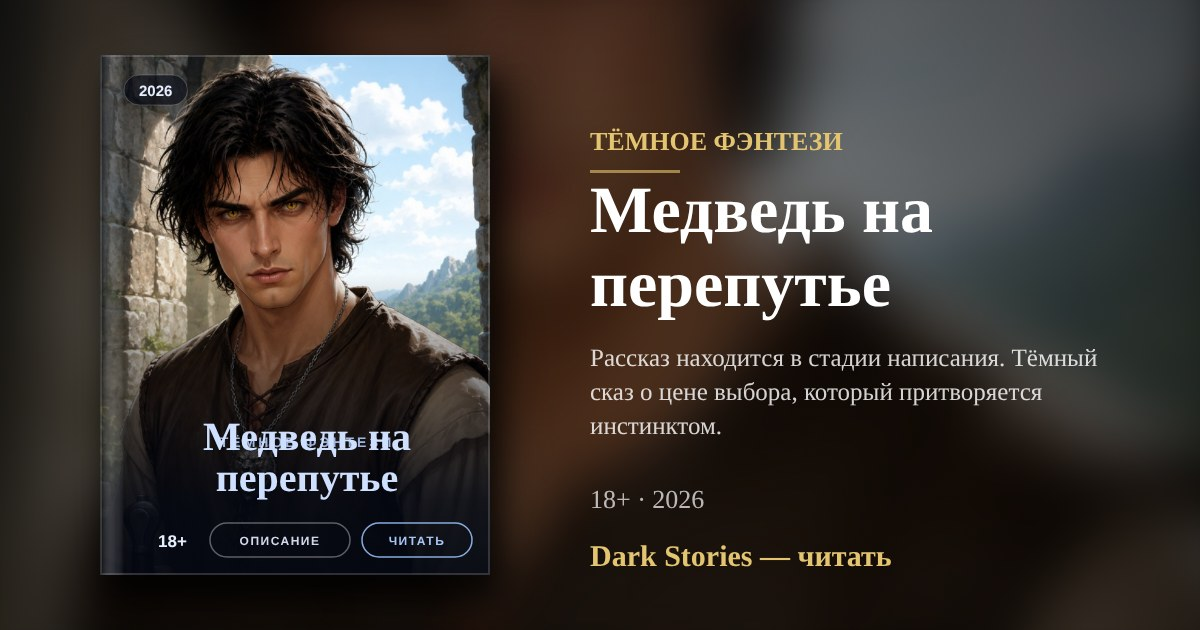
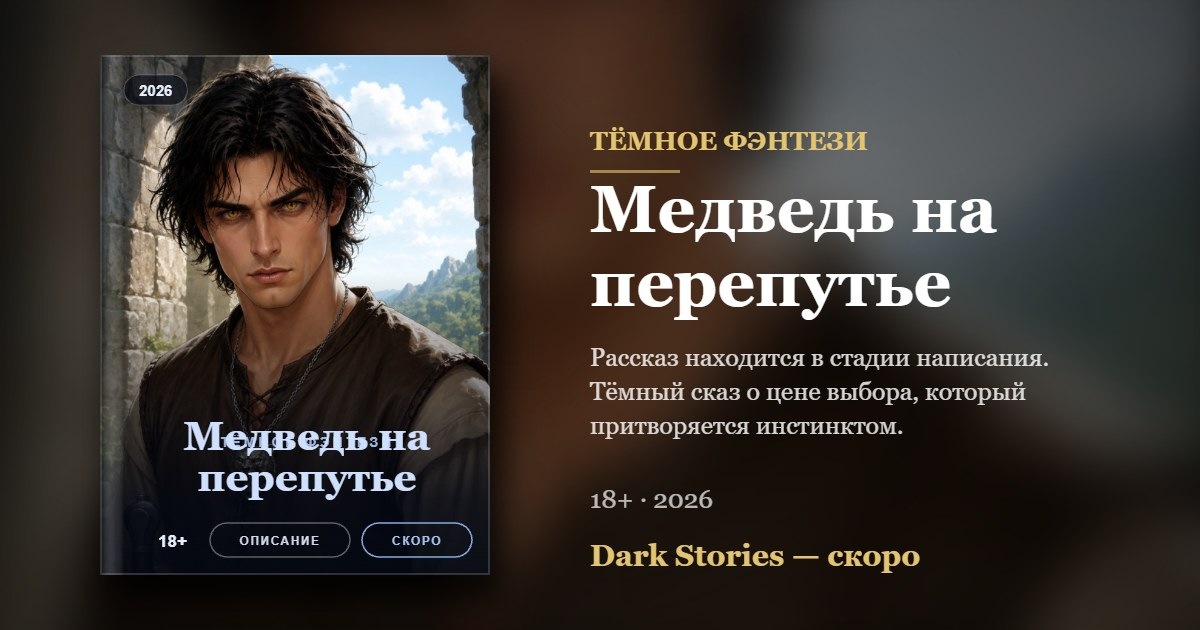
Админка: Изменены данные: «Новенький из параллельного класса»; Изменены данные: «Медведь на перепутье»; Изменены данные: «Лорд Балдерон. Цикл сказов»

diff --git a/s/lord-balderon.html b/s/lord-balderon.html
@@ -8,6 +8,6 @@
 <meta name="twitter:card" content="summary_large_image"><meta name="twitter:title" content="Лорд Балдерон. Цикл сказов — Dark Stories">
 <meta name="twitter:description" content="Шесть сказов о создателе, который познаёт свой же мир. О цене добрых намерений, о прощении, о покое. И о том, что даже бог может ошибаться."><meta name="twitter:image" content="https://darkstories.ru/s/lord-balderon.jpg">
 <link rel="canonical" href="https://darkstories.ru/s/lord-balderon.html">
-<script>location.replace("../#/read/lord-balderon")</script>
+<script>location.replace("../#/books")</script>
 <style>body{background:#0b0b0d;color:#ddd;font:16px system-ui,sans-serif;display:grid;place-items:center;min-height:100vh;margin:0}a{color:#e8c27a}</style>
-</head><body><p><a href="../#/read/lord-balderon">Читать «Лорд Балдерон. Цикл сказов»</a></p></body></html>
+</head><body><p><a href="../#/books">Скоро: «Лорд Балдерон. Цикл сказов»</a></p></body></html>

diff --git a/s/new-guy.html b/s/new-guy.html
@@ -8,6 +8,6 @@
 <meta name="twitter:card" content="summary_large_image"><meta name="twitter:title" content="Новенький из параллельного класса — Dark Stories">
 <meta name="twitter:description" content="Рассказ находится в стадии написания. Школьное фэнтези о зазоре между двумя расписаниями."><meta name="twitter:image" content="https://darkstories.ru/s/new-guy.jpg">
 <link rel="canonical" href="https://darkstories.ru/s/new-guy.html">
-<script>location.replace("../#/read/new-guy")</script>
+<script>location.replace("../#/books")</script>
 <style>body{background:#0b0b0d;color:#ddd;font:16px system-ui,sans-serif;display:grid;place-items:center;min-height:100vh;margin:0}a{color:#e8c27a}</style>
-</head><body><p><a href="../#/read/new-guy">Читать «Новенький из параллельного класса»</a></p></body></html>
+</head><body><p><a href="../#/books">Скоро: «Новенький из параллельного класса»</a></p></body></html>

diff --git a/s/bear-at-a-crossroads.html b/s/bear-at-a-crossroads.html
@@ -8,6 +8,6 @@
 <meta name="twitter:card" content="summary_large_image"><meta name="twitter:title" content="Медведь на перепутье — Dark Stories">
 <meta name="twitter:description" content="Рассказ находится в стадии написания. Тёмный сказ о цене выбора, который притворяется инстинктом."><meta name="twitter:image" content="https://darkstories.ru/s/bear-at-a-crossroads.jpg">
 <link rel="canonical" href="https://darkstories.ru/s/bear-at-a-crossroads.html">
-<script>location.replace("../#/read/bear-at-a-crossroads")</script>
+<script>location.replace("../#/books")</script>
 <style>body{background:#0b0b0d;color:#ddd;font:16px system-ui,sans-serif;display:grid;place-items:center;min-height:100vh;margin:0}a{color:#e8c27a}</style>
-</head><body><p><a href="../#/read/bear-at-a-crossroads">Читать «Медведь на перепутье»</a></p></body></html>
+</head><body><p><a href="../#/books">Скоро: «Медведь на перепутье»</a></p></body></html>

diff --git a/js/data.js b/js/data.js
@@ -106,7 +106,7 @@ var WORKS = [
     "genre": "Школьное фэнтези",
     "age": "16+",
     "year": "2025",
-    "status": "wip",
+    "status": "soon",
     "minutes": 1
   },
   {
@@ -120,7 +120,7 @@ var WORKS = [
     "genre": "Тёмное фэнтези",
     "age": "18+",
     "year": "2026",
-    "status": "wip",
+    "status": "soon",
     "minutes": 1,
     "readerStyle": "fantasy",
     "readerStyleChoice": true
@@ -136,7 +136,7 @@ var WORKS = [
     "genre": "Философское фэнтези",
     "age": "16+",
     "year": "2026",
-    "status": "published",
+    "status": "soon",
     "minutes": 3,
     "readerStyle": "fantasy",
     "readerStyleChoice": true,
